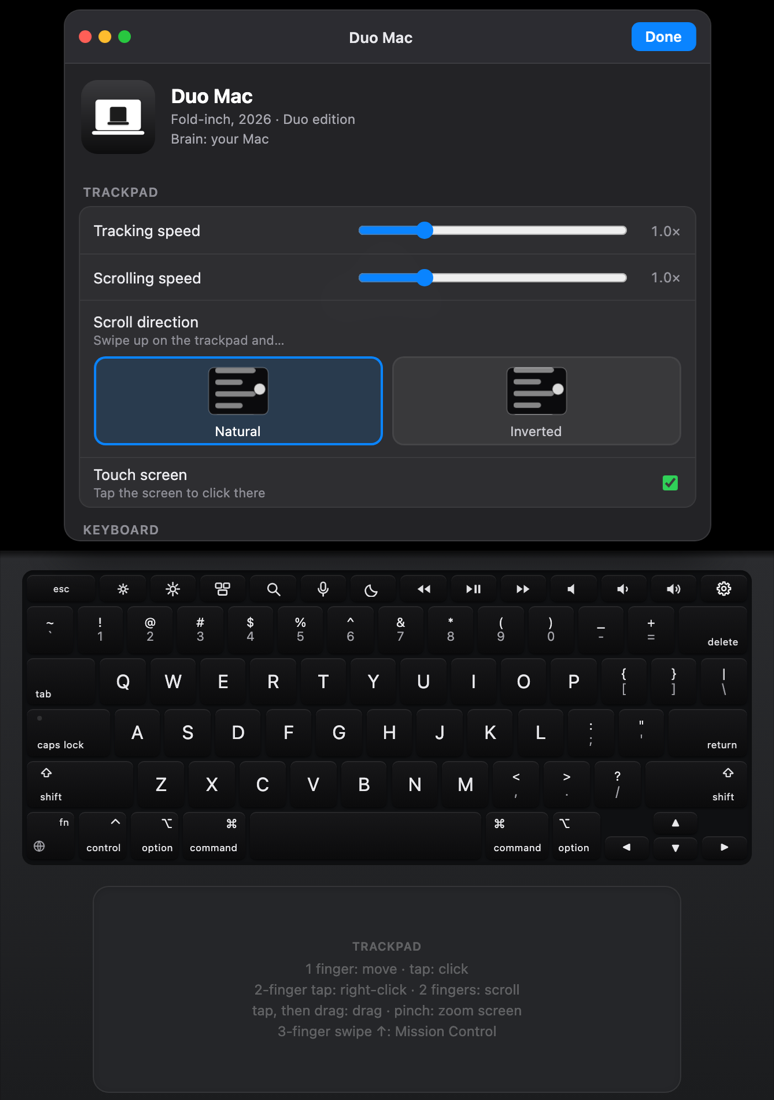
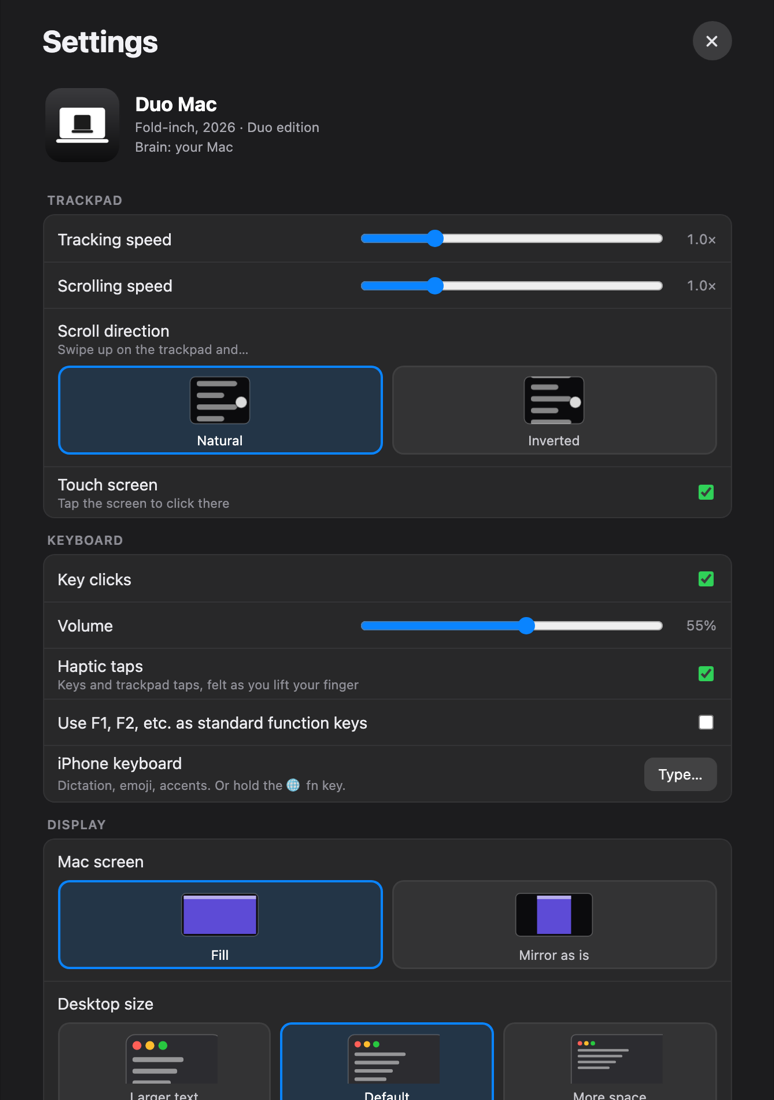
iPhone settings open as a full-screen page with a close button; website: lift the Duo off the MacBook

diff --git a/web/app.css b/web/app.css
@@ -599,38 +599,30 @@ button { font: inherit; color: inherit; }
 
 /* ───────────── Settings sheet ───────────── */
 
+/* A full-screen iPhone page over the whole app (screen and keyboard), so it's clearly not part of
+   the Mac's screen: close it with the × at the top right. */
 #sheet {
   position: absolute;
-  left: 0;
-  right: 0;
-  top: 0;
-  height: var(--lid-h);
+  inset: 0;
   z-index: 20;
-  display: flex;
-  justify-content: center;
-  padding: max(var(--sat), 8px) max(var(--sar), 8px) 8px max(var(--sal), 8px);
-  background: rgba(0, 0, 0, .55);
-  -webkit-backdrop-filter: blur(14px);
-  backdrop-filter: blur(14px);
+  background: #1c1c1e;
   touch-action: pan-y;
   -webkit-user-select: none;
+  animation: sheet-in .28s cubic-bezier(.2, .8, .2, 1);
 }
-#app.screen-only #sheet { height: 100%; }
 #sheet[hidden] { display: none; }
+@keyframes sheet-in { from { transform: translateY(6%); opacity: 0; } }
 
 .panel {
-  width: 100%;
-  max-width: 560px;
+  /* Content stays a comfortable width, centred, on the wide Duo. */
+  --side: max(var(--sal), 4px, calc((100% - 620px) / 2));
   height: 100%;
+  padding: 0 var(--side) max(var(--sab), 24px);
   overflow-y: auto;
   -webkit-overflow-scrolling: touch;
   overscroll-behavior: contain;
   touch-action: pan-y;
-  border-radius: 14px;
-  background: rgba(36, 36, 40, .96);
-  border: 1px solid rgba(255, 255, 255, .1);
-  box-shadow: 0 12px 40px rgba(0, 0, 0, .6);
-  font-size: 13px;
+  font-size: 14px;
 }
 
 .panel header {
@@ -638,25 +630,25 @@ button { font: inherit; color: inherit; }
   top: 0;
   display: flex;
   align-items: center;
-  gap: 10px;
-  padding: 10px 12px;
-  background: rgba(44, 44, 49, .98);
-  border-bottom: 1px solid rgba(255, 255, 255, .08);
+  margin: 0 calc(-1 * var(--side));
+  padding: calc(max(var(--sat), 12px) + 6px) calc(var(--side) + 12px) 10px;
+  background: rgba(28, 28, 30, .92);
+  -webkit-backdrop-filter: blur(16px);
+  backdrop-filter: blur(16px);
   z-index: 1;
 }
-.panel header .dots { display: flex; gap: 6px; }
-.panel header .dots i { width: 11px; height: 11px; border-radius: 50%; background: #ff5f57; }
-.panel header .dots i:nth-child(2) { background: #febc2e; }
-.panel header .dots i:nth-child(3) { background: #28c840; }
-.panel header h2 { flex: 1; margin: 0; font-size: 13px; font-weight: 600; text-align: center; color: #e8e8ec; }
-.panel header button {
+.panel header h2 { flex: 1; margin: 0; font-size: 26px; font-weight: 700; letter-spacing: -.01em; color: #f2f2f6; }
+.panel header .x {
+  display: grid;
+  place-items: center;
+  width: 34px;
+  height: 34px;
   border: 0;
-  border-radius: 7px;
-  padding: 5px 12px;
-  background: #0a84ff;
-  font-weight: 600;
-  font-size: 12.5px;
+  border-radius: 50%;
+  background: rgba(255, 255, 255, .14);
+  color: #e8e8ec;
 }
+.panel header .x svg { width: 15px; height: 15px; }
 
 .about {
   display: flex;

diff --git a/site/styles.css b/site/styles.css
@@ -233,7 +233,7 @@ h1 {
 .duo {
   --W: 66.9em; --H: 47.55em; --D: 47.55em; --T: 2.4em; --BT: 2.4em;
   font-size: calc(var(--sw) * .00178 * 1.82 * 1.32);
-  transform: translate3d(calc(var(--sw) * .265), 0, calc(var(--sw) * .1)) rotateY(-18deg);
+  transform: translate3d(calc(var(--sw) * .285), calc(var(--sw) * -.055), calc(var(--sw) * .1)) rotateY(-18deg);
 }
 .duo .lid .face { padding: .5em .5em 0; border-radius: 5.6em 5.6em 0 0; background: #151618; }
 .duo .lid .back { border-radius: 5.6em 5.6em 0 0; background: radial-gradient(120% 90% at 30% 20%, #6e7075, #4a4c50 60%, #3c3e42); }

diff --git a/web/js/sheet.js b/web/js/sheet.js
@@ -221,7 +221,7 @@ export class Sheet {
       : 'Not connected';
     this.el.innerHTML = `
 <div class="panel">
-  <header><div class="dots"><i></i><i></i><i></i></div><h2>Duo Mac</h2><button type="button" data-act="close">Done</button></header>
+  <header><h2>Settings</h2><button type="button" class="x" data-act="close" aria-label="Close settings"><svg viewBox="0 0 16 16" aria-hidden="true"><path d="M4 4l8 8M12 4l-8 8" stroke="currentColor" stroke-width="2" stroke-linecap="round"/></svg></button></header>
   <div class="about">
     <img src="icon-180.png" alt="">
     <div>

diff --git a/README.md b/README.md
@@ -94,7 +94,7 @@ Duo Mac lives in the **menu bar**. Its panel shows the connected iPhone and the 
 
 **Screen** (top half): tap to click exactly there, drag to drag, 2-finger tap to right-click, pinch or 2 fingers to zoom and pan.
 
-<img src="docs/images/iphone-settings.png" width="330" align="right" alt="Duo Mac settings on the iPhone, above the keyboard and trackpad">
+<img src="docs/images/iphone-settings.png" width="330" align="right" alt="Duo Mac settings on the iPhone: a full-screen page with visual options">
 
 **Keyboard**: labelled with your Mac's actual layout (ANSI or ISO).
 
